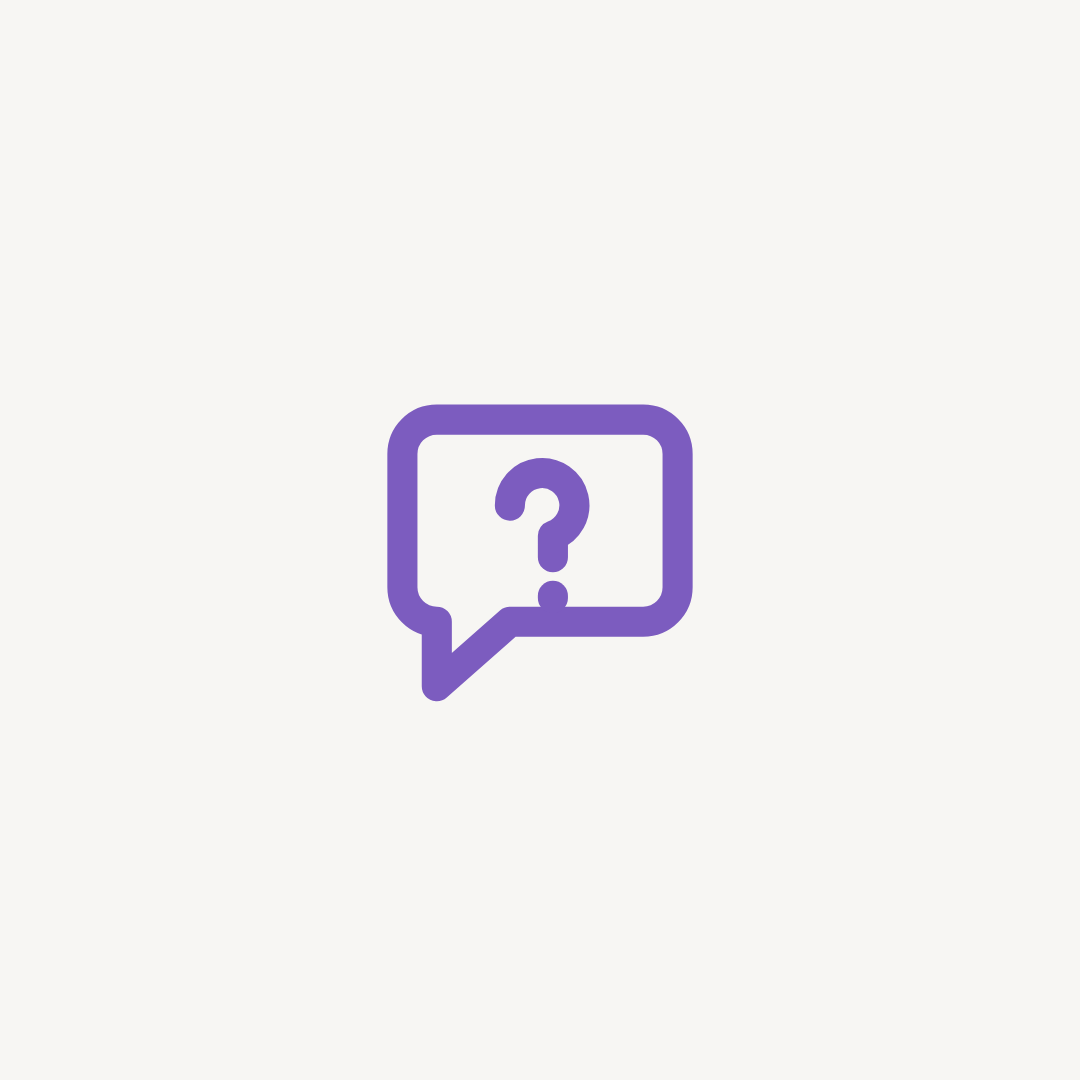
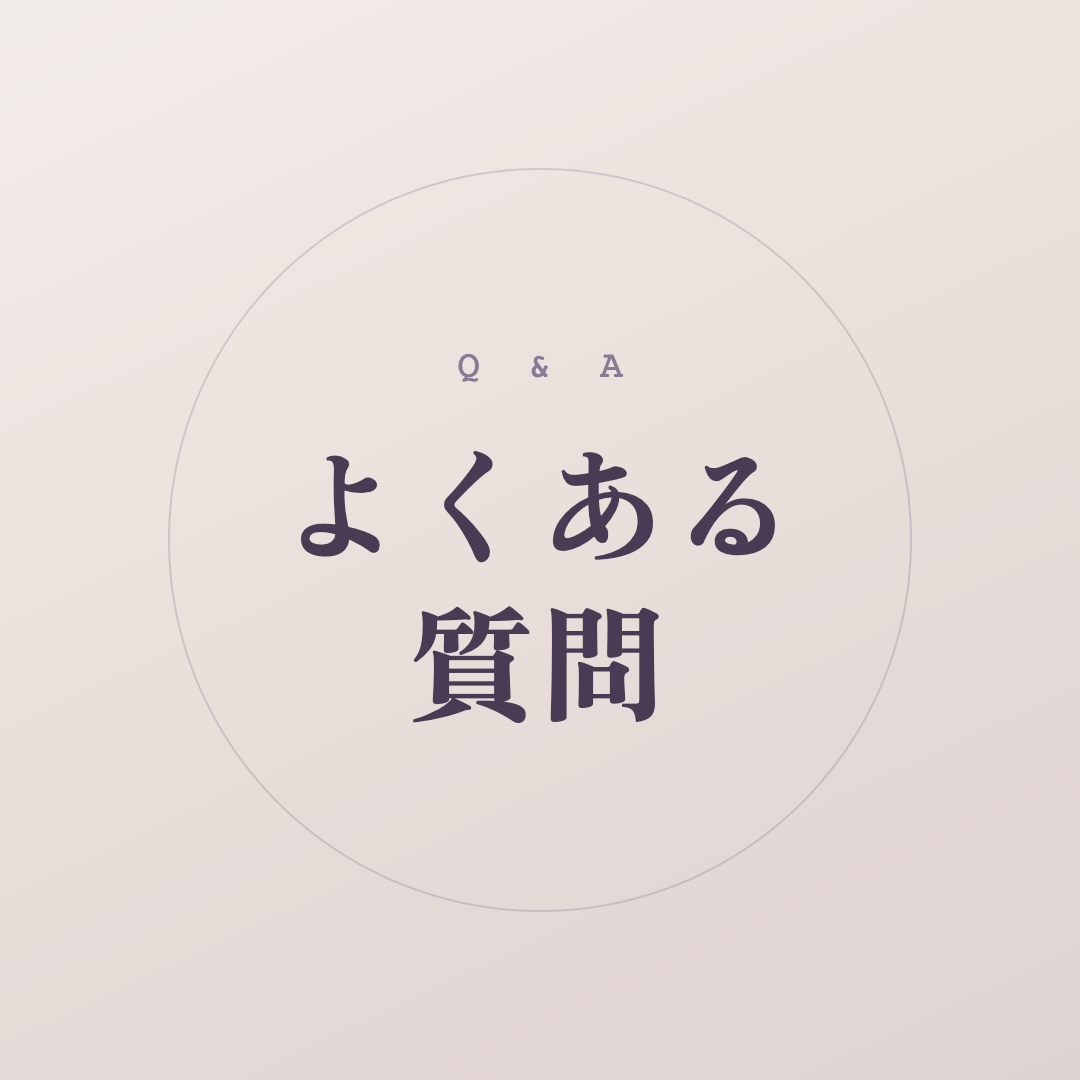
サレオツ：ハイライトカバーとアイコンを作り直す
ハイライトはプロフィール上で直径60px前後の円に縮む。
細い線画のアイコンはこの縮尺で線が飛び、素っ気なく見えていた。
相手はネイリスト・アイリストで、見た目の判断が最も厳しい層。ここで止まらない。

  - カバー5枚を「明朝の日本語＋欧文キャプション」の文字主体に変更
  - 中央の円の内側に収める（Instagram が円で切り抜くため）
  - 配色をクリーム＋紫の細線から、グレージュのグラデーション＋葡萄色に統一
  - プロフィールアイコンを面で作り直し（別案として明朝一文字の「カ」も追加）
  - render.mjs が Linux 固定パスの Chrome を見ていたため、環境ごとに解決するよう修正

diff --git a/marketing/social/assets.html b/marketing/social/assets.html
@@ -24,6 +24,49 @@
   .cover svg { width:430px; height:430px; }
   svg { stroke:var(--violet); fill:none; stroke-width:22; stroke-linecap:round; stroke-linejoin:round; }
   .cover svg { stroke-width:14; }
+
+  /* ══ ハイライトカバー ══
+     直径60pxの円に縮む前提。細線は使わず、文字の面で見せる。
+     中央の直径600px以内に収める（Instagram が円で切り抜くため）。 */
+  .hl { background:linear-gradient(155deg,#f3ede9 0%,#e8ddd9 55%,#dfd2d3 100%); align-items:center; justify-content:center; }
+  .hl::before {
+    content:""; position:absolute; left:50%; top:50%; width:740px; height:740px;
+    transform:translate(-50%,-50%); border-radius:50%;
+    border:2px solid rgba(93,74,110,.20);
+  }
+  .hl-in {
+    position:relative; width:700px; height:700px; border-radius:50%;
+    display:flex; flex-direction:column; align-items:center; justify-content:center; gap:34px;
+    color:#4a3b55; text-align:center;
+  }
+  .hl-en {
+    font-family:"Roboto Mono",monospace; font-size:38px; letter-spacing:.34em;
+    color:#8a7a93; text-indent:.34em;
+  }
+  .hl-jp {
+    font-family:"Zen Old Mincho",serif; font-weight:900; font-size:158px; line-height:1.26;
+    letter-spacing:.04em;
+  }
+  .hl-two .hl-jp { font-size:126px; }
+  .hl-accent { color:#fff; }
+  .hl-accent .hl-en { color:rgba(255,255,255,.82); }
+  .art[data-name="cover-5-monitor"] { background:linear-gradient(155deg,#6f5a80 0%,#5b4769 60%,#493757 100%); }
+  .art[data-name="cover-5-monitor"]::before { border-color:rgba(255,255,255,.34); }
+
+  /* ══ プロフィールアイコン ══ */
+  .icon { background:linear-gradient(155deg,#6f5a80 0%,#5b4769 58%,#493757 100%); align-items:center; justify-content:center; }
+  .icon svg { width:600px; height:600px; }
+
+  /* アイコン別案：屋号の頭文字を明朝で。32pxまで縮んでも形が残る。 */
+  .icon-word { position:relative; }
+  .icon-word::before {
+    content:""; position:absolute; left:50%; top:50%; width:780px; height:780px;
+    transform:translate(-50%,-50%); border-radius:50%; border:6px solid rgba(255,255,255,.30);
+  }
+  .icon-word .mark {
+    position:relative; font-family:"Zen Old Mincho",serif; font-weight:900;
+    font-size:470px; line-height:1; color:#fff; margin-top:-18px;
+  }
 </style>
 
 <!-- ══ 文字だけの投稿 ══ -->
@@ -64,55 +107,45 @@
 </div>
 
 <!-- ══ プロフィールアイコン ══ -->
-<div class="art flat" data-name="icon-profile">
+<!-- フィードでは32px、プロフィールでも150px程度。細線は消えるので面で作る。 -->
+<div class="art icon" data-name="icon-profile">
   <svg viewBox="0 0 200 200">
-    <rect x="34" y="24" width="132" height="152" rx="18"/>
-    <line x1="66" y1="70" x2="134" y2="70"/>
-    <line x1="66" y1="100" x2="134" y2="100" stroke-width="30"/>
-    <line x1="66" y1="132" x2="110" y2="132"/>
+    <rect x="42" y="28" width="116" height="144" rx="20" fill="none" stroke="#fff" stroke-width="13"/>
+    <rect x="70" y="66" width="60" height="13" rx="6.5" fill="#fff" stroke="none"/>
+    <rect x="70" y="94" width="60" height="13" rx="6.5" fill="#fff" stroke="none"/>
+    <rect x="70" y="122" width="34" height="13" rx="6.5" fill="#fff" stroke="none"/>
   </svg>
+</div>
+
+<!-- プロフィールアイコン（別案：明朝の一文字マーク） -->
+<div class="art icon icon-word" data-name="icon-profile-word">
+  <span class="mark">カ</span>
 </div>
 
 <!-- ══ ハイライトカバー ══ -->
-<div class="art cover" data-name="cover-1-about">
-  <svg viewBox="0 0 200 200">
-    <rect x="40" y="30" width="120" height="140" rx="16"/>
-    <line x1="70" y1="72" x2="130" y2="72"/>
-    <line x1="70" y1="102" x2="130" y2="102"/>
-    <line x1="70" y1="132" x2="105" y2="132"/>
-  </svg>
+<!--
+  ハイライトは**プロフィールで直径60px前後の円**に縮む。
+  細い線画はここで消える。文字を主役にして、縮んでも読めるようにする。
+  Instagram は中央を円で切り抜くので、要素は中央の直径600px以内に収める。
+-->
+<div class="art hl" data-name="cover-1-about">
+  <div class="hl-in"><span class="hl-en">ABOUT</span><span class="hl-jp">はじめに</span></div>
 </div>
 
-<div class="art cover" data-name="cover-2-howto">
-  <svg viewBox="0 0 200 200">
-    <rect x="58" y="24" width="84" height="152" rx="16"/>
-    <polyline points="78,104 95,122 126,84"/>
-  </svg>
+<div class="art hl" data-name="cover-2-howto">
+  <div class="hl-in"><span class="hl-en">HOW TO</span><span class="hl-jp">使い方</span></div>
 </div>
 
-<div class="art cover" data-name="cover-3-price">
-  <svg viewBox="0 0 200 200">
-    <circle cx="100" cy="100" r="72"/>
-    <polyline points="72,66 100,102 128,66"/>
-    <line x1="100" y1="102" x2="100" y2="140"/>
-    <line x1="74" y1="110" x2="126" y2="110"/>
-  </svg>
+<div class="art hl" data-name="cover-3-price">
+  <div class="hl-in"><span class="hl-en">PRICE</span><span class="hl-jp">料金</span></div>
 </div>
 
-<div class="art cover" data-name="cover-4-faq">
-  <svg viewBox="0 0 200 200">
-    <path d="M36 60a16 16 0 0 1 16-16h96a16 16 0 0 1 16 16v62a16 16 0 0 1-16 16H86l-34 30v-30h-0a16 16 0 0 1-16-16z"/>
-    <path d="M86 84a15 15 0 1 1 20 14v10"/>
-    <line x1="106" y1="126" x2="106" y2="127"/>
-  </svg>
+<div class="art hl" data-name="cover-4-faq">
+  <div class="hl-in hl-two"><span class="hl-en">Q &amp; A</span><span class="hl-jp">よくある<br>質問</span></div>
 </div>
 
-<div class="art cover" data-name="cover-5-monitor">
-  <svg viewBox="0 0 200 200">
-    <circle cx="100" cy="100" r="70"/>
-    <line x1="100" y1="66" x2="100" y2="134"/>
-    <line x1="66" y1="100" x2="134" y2="100"/>
-  </svg>
+<div class="art hl" data-name="cover-5-monitor">
+  <div class="hl-in hl-two hl-accent"><span class="hl-en">MONITOR</span><span class="hl-jp">モニター<br>募集</span></div>
 </div>
 
 <!-- ══ アプリ画面の投稿（#5） ══ -->
